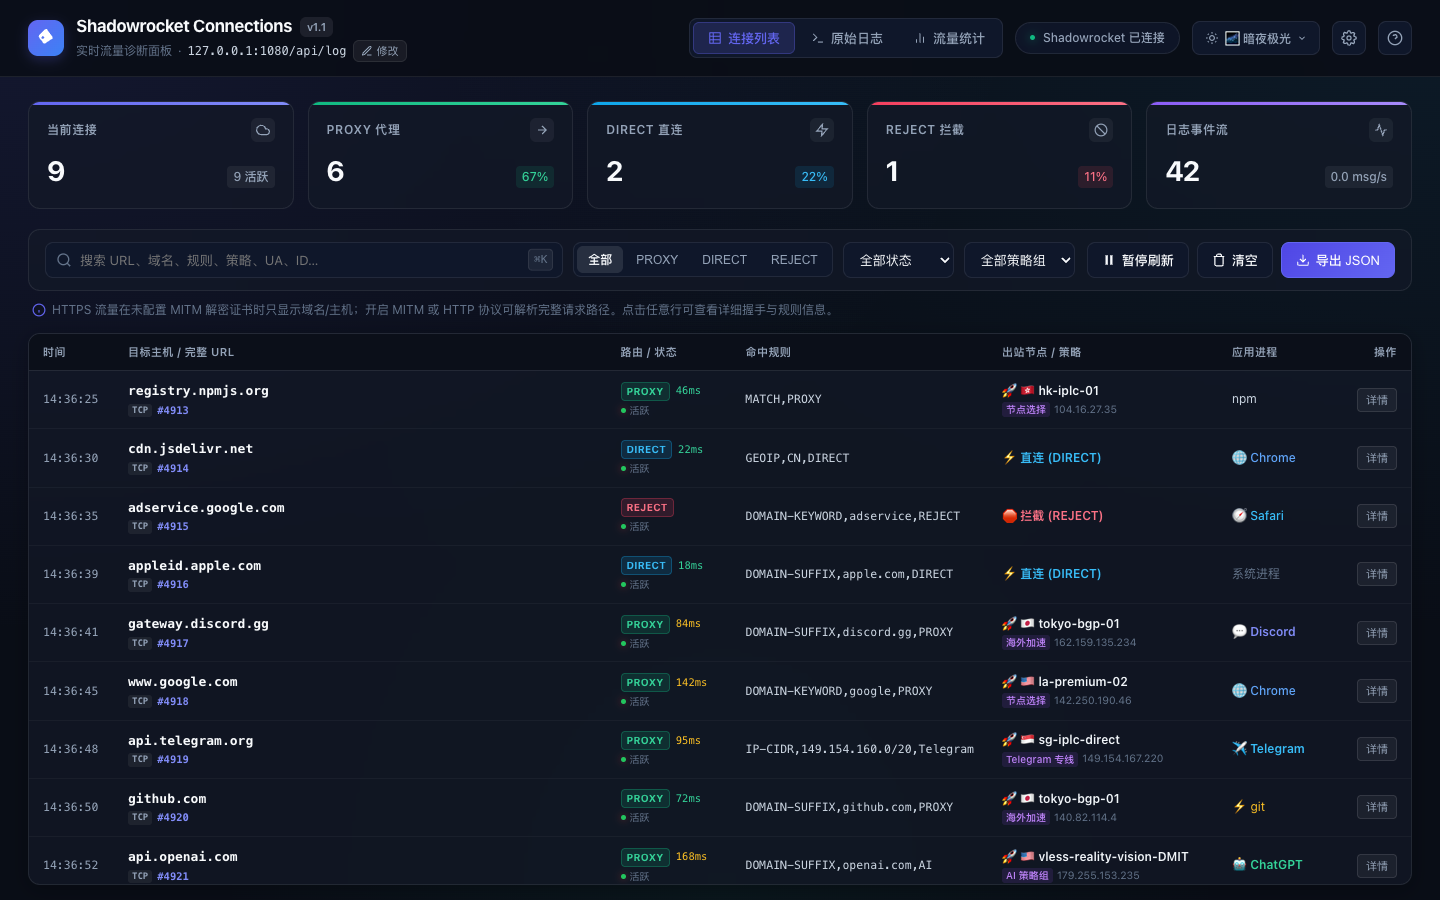
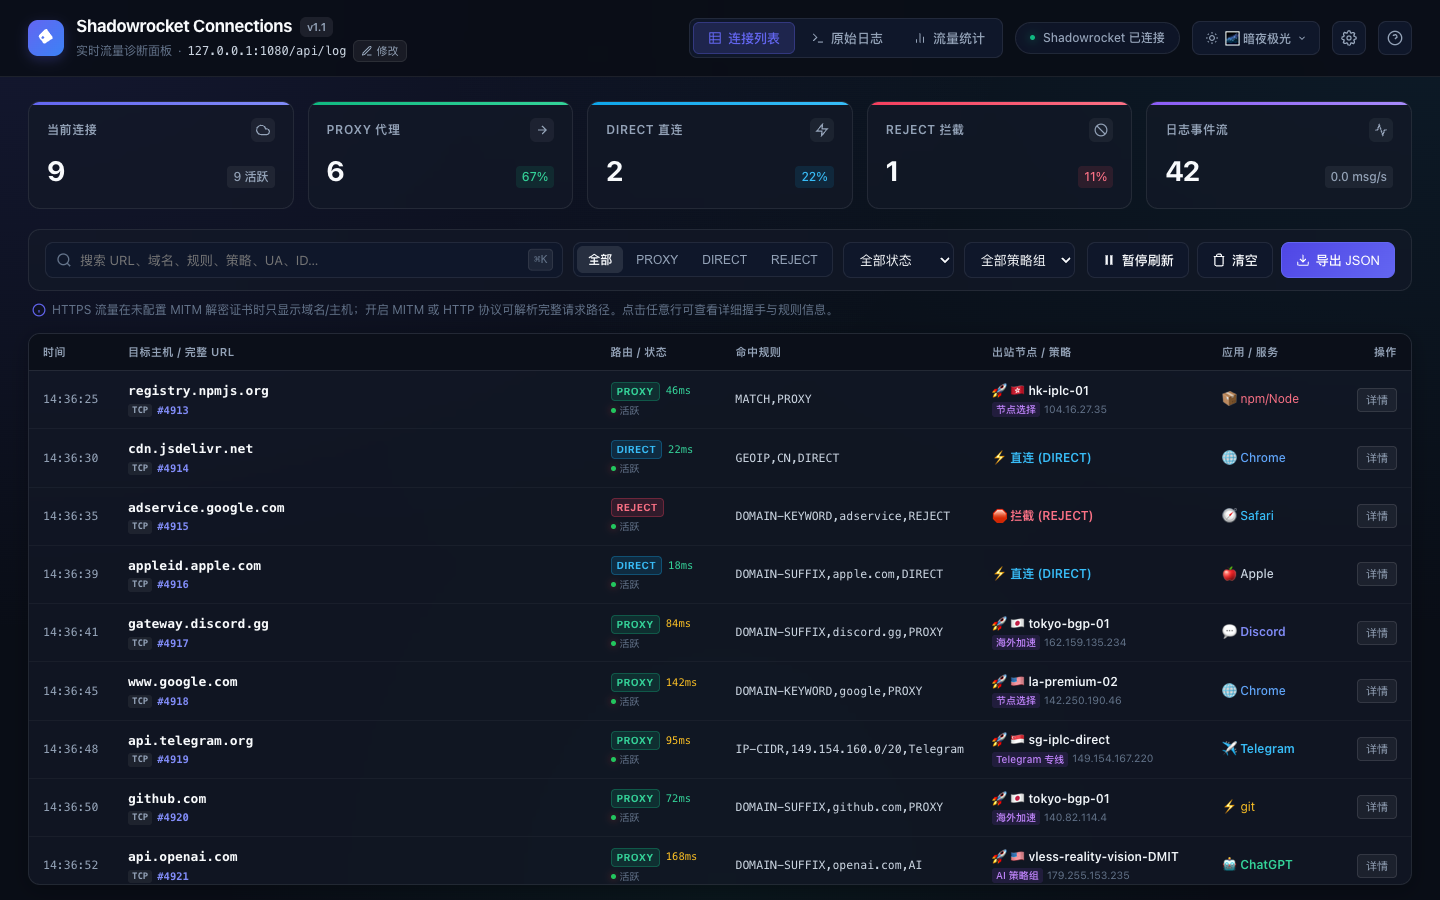
feat: add intelligent domain & service recognition engine, replace repetitive system process text

diff --git a/public/index.html b/public/index.html
@@ -1531,7 +1531,7 @@
                   <th style="width: 125px;">路由 / 状态</th>
                   <th style="width: 220px;">命中规则</th>
                   <th style="width: 230px;">出站节点 / 策略</th>
-                  <th style="width: 125px;">应用进程</th>
+                  <th style="width: 135px;">应用 / 服务</th>
                   <th style="width: 60px; text-align: right;">操作</th>
                 </tr>
               </thead>
@@ -2076,28 +2076,78 @@
         return '<span style="color:#64748b">—</span>';
       }
 
-      function formatApp(ua) {
-        if (!ua) return '<span class="app-col" style="color:#64748b;">系统进程</span>';
-        const lower = ua.toLowerCase();
-        if (lower.includes('openai') || lower.includes('chatgpt')) {
-          return '<span class="app-col" style="color:#34d399; font-weight:600;">🤖 ChatGPT</span>';
+      // Domain & Service Fingerprint Database
+      const DOMAIN_APP_MAP = [
+        { test: /chatgpt\.com|oaistatic\.com|oaiusercontent\.com|openai\.com/i, label: '🤖 ChatGPT', color: '#34d399' },
+        { test: /claude\.ai|anthropic\.com/i, label: '🧠 Claude', color: '#f59e0b' },
+        { test: /github\.com|githubusercontent\.com|githubassets\.com|ghcr\.io/i, label: '🐙 GitHub', color: '#e2e8f0' },
+        { test: /telegram\.org|t\.me|telesco\.pe/i, label: '✈ Telegram', color: '#38bdf8' },
+        { test: /discord\.gg|discord\.com|discordapp\.com/i, label: '💬 Discord', color: '#818cf8' },
+        { test: /twitter\.com|x\.com|twimg\.com|t\.co/i, label: '🐦 X / Twitter', color: '#38bdf8' },
+        { test: /youtube\.com|googlevideo\.com|ytimg\.com|youtu\.be/i, label: '▶ YouTube', color: '#f87171' },
+        { test: /google\.com|gstatic\.com|googleapis\.com|1e100\.net|googleusercontent\.com/i, label: '🌐 Google', color: '#60a5fa' },
+        { test: /apple\.com|icloud\.com|mzstatic\.com|aaplimg\.com|apple-cloudkit\.com/i, label: '🍎 Apple', color: '#cbd5e1' },
+        { test: /microsoft\.com|live\.com|office\.com|azure\.com|windows\.com|msftconnecttest\.com/i, label: '🪟 Microsoft', color: '#38bdf8' },
+        { test: /v2ex\.com/i, label: '⚪ V2EX', color: '#94a3b8' },
+        { test: /bilibili\.com|bilivideo\.com|hdslb\.com|biliapi\.net/i, label: '📺 哔哩哔哩', color: '#38bdf8' },
+        { test: /qq\.com|weixin\.qq\.com|tencent\.com|gtimg\.cn|qpic\.cn/i, label: '🐧 腾讯 / 微信', color: '#22c55e' },
+        { test: /zhihu\.com|zhimg\.com/i, label: '💡 知乎', color: '#0284c7' },
+        { test: /taobao\.com|alipay\.com|aliyun\.com|alicdn\.com|tmall\.com/i, label: '🛒 阿里 / 淘宝', color: '#f97316' },
+        { test: /baidu\.com|bdstatic\.com|baidupcs\.com/i, label: '🐾 百度', color: '#3b82f6' },
+        { test: /bytedance\.com|tiktok\.com|douyin\.com|snssdk\.com/i, label: '🎵 抖音 / TikTok', color: '#ec4899' },
+        { test: /netflix\.com|nflxvideo\.net|nflximg\.net/i, label: '🎬 Netflix', color: '#ef4444' },
+        { test: /spotify\.com|scdn\.co/i, label: '🎵 Spotify', color: '#22c55e' },
+        { test: /notion\.so|notion\.site/i, label: '📝 Notion', color: '#e2e8f0' },
+        { test: /figma\.com/i, label: '🎨 Figma', color: '#c084fc' },
+        { test: /steamcommunity\.com|steampowered\.com|steamstatic\.com/i, label: '🎮 Steam', color: '#60a5fa' },
+        { test: /epicgames\.com/i, label: '🎮 Epic Games', color: '#cbd5e1' },
+        { test: /docker\.com|docker\.io/i, label: '🐳 Docker', color: '#38bdf8' },
+        { test: /npmjs\.org|yarnpkg\.com|registry\.npmjs\.org/i, label: '📦 npm', color: '#fb7185' },
+        { test: /reddit\.com|redd\.it/i, label: '🤖 Reddit', color: '#fb923c' },
+        { test: /amazon\.com|aws\.amazon\.com|cloudfront\.net/i, label: '📦 AWS / Amazon', color: '#fbbf24' },
+        { test: /cloudflare\.com|cloudflare-dns\.com/i, label: '🛡 Cloudflare', color: '#f97316' }
+      ];
+
+      function formatApp(item) {
+        const ua = item?.ua || '';
+        const host = item?.host || '';
+        const rule = item?.rule || '';
+
+        // 1. Match from User-Agent if available
+        if (ua) {
+          const lower = ua.toLowerCase();
+          if (lower.includes('openai') || lower.includes('chatgpt')) return '<span class="app-col" style="color:#34d399; font-weight:600;">🤖 ChatGPT</span>';
+          if (lower.includes('claude') || lower.includes('anthropic')) return '<span class="app-col" style="color:#f59e0b; font-weight:600;">🧠 Claude</span>';
+          if (lower.includes('chrome')) return '<span class="app-col" style="color:#60a5fa; font-weight:500;">🌐 Chrome</span>';
+          if (lower.includes('safari') && !lower.includes('chrome')) return '<span class="app-col" style="color:#38bdf8; font-weight:500;">🧭 Safari</span>';
+          if (lower.includes('firefox')) return '<span class="app-col" style="color:#fb923c; font-weight:500;">🦊 Firefox</span>';
+          if (lower.includes('edge') || lower.includes('edg/')) return '<span class="app-col" style="color:#38bdf8; font-weight:500;">🌊 Edge</span>';
+          if (lower.includes('telegram')) return '<span class="app-col" style="color:#38bdf8; font-weight:600;">✈ Telegram</span>';
+          if (lower.includes('discord')) return '<span class="app-col" style="color:#818cf8; font-weight:600;">💬 Discord</span>';
+          if (lower.includes('wechat') || lower.includes('micromessenger')) return '<span class="app-col" style="color:#22c55e; font-weight:600;">🟢 微信</span>';
+          if (lower.includes('curl') || lower.includes('git/')) return `<span class="app-col" style="color:#fbbf24;">⚡ ${esc(ua.split('/')[0])}</span>`;
+          if (lower.includes('npm') || lower.includes('yarn') || lower.includes('pnpm') || lower.includes('node')) return '<span class="app-col" style="color:#fb7185;">📦 npm/Node</span>';
+          return `<span class="app-col" title="${esc(ua)}">${esc(ua.split('/')[0])}</span>`;
         }
-        if (lower.includes('chrome')) {
-          return '<span class="app-col" style="color:#60a5fa; font-weight:500;">🌐 Chrome</span>';
+
+        // 2. Smart Fingerprint Recognition from target Host / Rule
+        const targetStr = `${host} ${rule}`;
+        for (const fp of DOMAIN_APP_MAP) {
+          if (fp.test.test(targetStr)) {
+            return `<span class="app-col" style="color:${fp.color}; font-weight:500;">${fp.label}</span>`;
+          }
         }
-        if (lower.includes('safari') && !lower.includes('chrome')) {
-          return '<span class="app-col" style="color:#38bdf8; font-weight:500;">🧭 Safari</span>';
+
+        // 3. Clean fallback: Main site domain or subtle indicator
+        if (host) {
+          const parts = host.split('.');
+          if (parts.length >= 2 && !host.match(/^\d+\.\d+\.\d+\.\d+$/)) {
+            const mainDomain = parts.slice(-2).join('.');
+            return `<span class="app-col" style="color:var(--text-muted); font-size:11px;" title="${esc(host)}">🌐 ${esc(mainDomain)}</span>`;
+          }
         }
-        if (lower.includes('telegram')) {
-          return '<span class="app-col" style="color:#38bdf8; font-weight:600;">✈ Telegram</span>';
-        }
-        if (lower.includes('discord')) {
-          return '<span class="app-col" style="color:#818cf8; font-weight:600;">💬 Discord</span>';
-        }
-        if (lower.includes('curl') || lower.includes('git/')) {
-          return `<span class="app-col" style="color:#fbbf24;">⚡ ${esc(ua.split('/')[0])}</span>`;
-        }
-        return `<span class="app-col" title="${esc(ua)}">${esc(ua.split('/')[0])}</span>`;
+
+        return '<span class="app-col" style="color:var(--text-muted); font-size:11px;">TCP 流量</span>';
       }
 
       // Render Connection Table
@@ -2176,7 +2226,7 @@
                 ${formatOutbound(x)}
               </td>
               <td>
-                ${formatApp(x.ua)}
+                ${formatApp(x)}
               </td>
               <td style="text-align: right;">
                 <button class="action-btn" onclick="event.stopPropagation(); openDrawer('${esc(x.id)}')">
